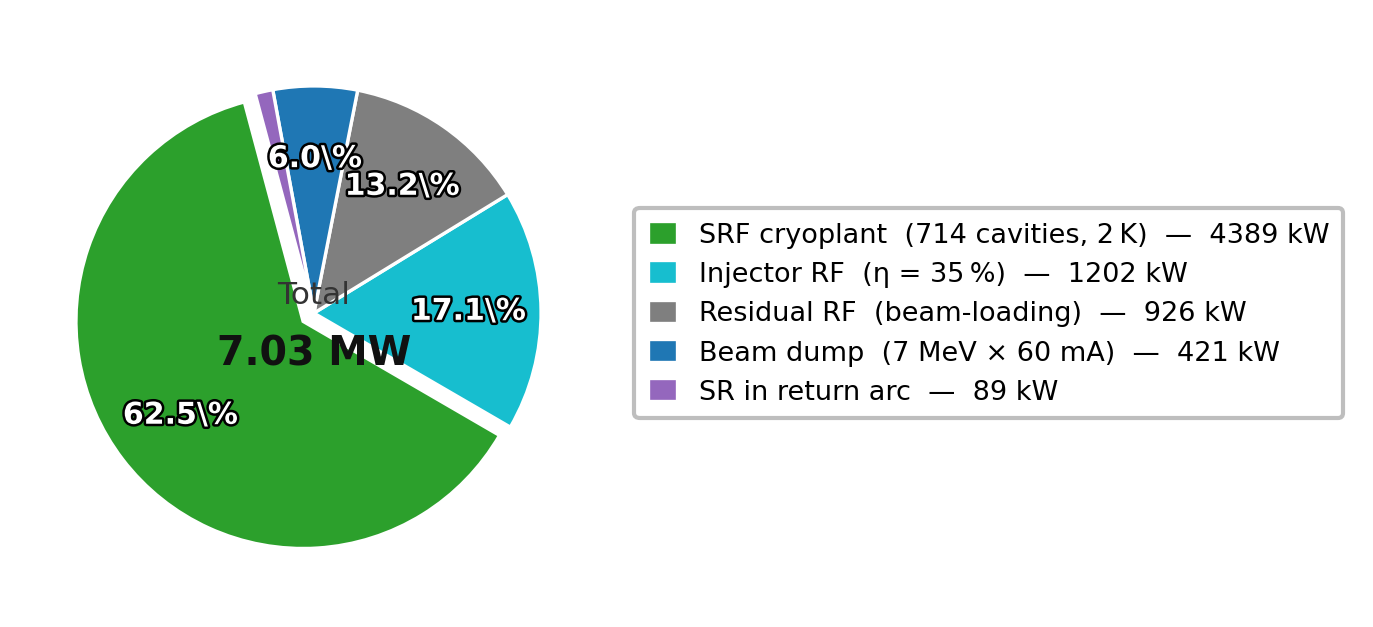
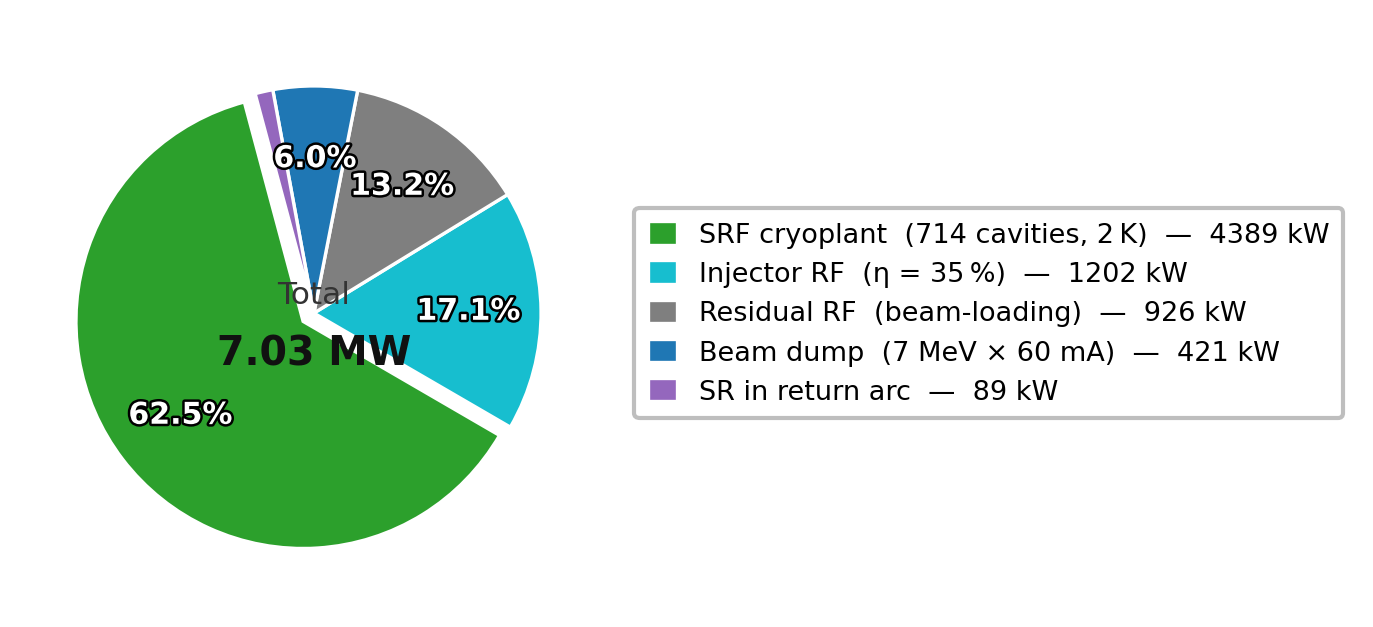
Fix percent sign in pie chart labels (remove erroneous backslash)
\% → % in autopct lambda; regenerated ERL_power_pie.pdf and .png.

Changed region(s): [[0.1835, 0.2121, 0.3365, 0.3333], [0.2753, 0.4545, 0.3977, 0.5152], [0.0918, 0.6364, 0.1835, 0.697]]

diff --git a/EIC-LHeC/erl_power_pie.py b/EIC-LHeC/erl_power_pie.py
@@ -51,7 +51,7 @@ wedges, texts, autotexts = ax.pie(
     labels=None,
     colors=cols_s,
     explode=explode,
-    autopct=lambda p: f"{p:.1f}\\%" if p > 4 else "",
+    autopct=lambda p: f"{p:.1f}%" if p > 4 else "",
     pctdistance=0.68,
     startangle=105,
     wedgeprops=dict(linewidth=0.8, edgecolor="white"),
